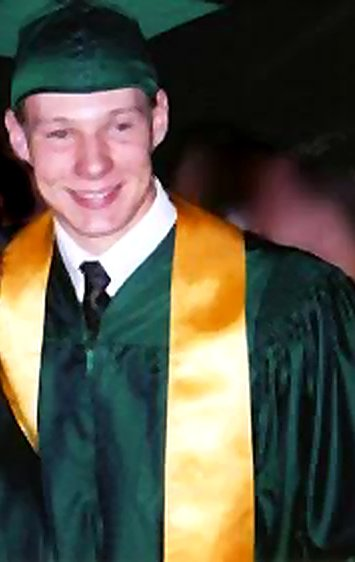
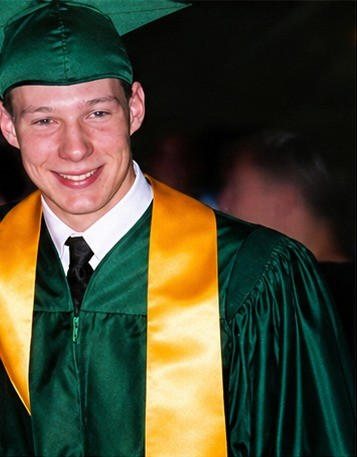
Guimond: sharper photos and two new portraits
Replaces the lead portrait, the navy pullover portrait and the graduation
photo (still cropped to Josh alone) with sharper copies Justin sent, and
adds the glasses photo and the red polo portrait.

Claude-Session: https://claude.ai/code/session_01ToYx7839vDZrWcjsYpVoyb

diff --git a/src/content/cases/joshua-guimond-2002.md b/src/content/cases/joshua-guimond-2002.md
@@ -28,6 +28,9 @@
 # "Walk home" appears only as the state bulletin's words (S3), the early lake theory (S9), Lisa's belief (S4)
 # and what friends assumed (S9). The story never states where he went after he left Metten Court.
 # Photos: supplied by Justin on October 31, 2026. The lead portrait is the one on the family's missing poster.
+# On November 1, 2026, Justin sent sharper copies of the lead portrait, the navy pullover portrait and the
+# graduation photo, which replace the earlier files, and two more: the glasses photo (also on the missing
+# poster) and the red polo portrait.
 # The graduation photo is cropped to Josh alone; the others in the frame are unidentified. The campus map is
 # Justin's, built on OpenStreetMap data, with its "Last seen" label removed so the map doesn't place him anywhere
 # after Metten Court. The abbey church photo is Bobak Ha'Eri's, CC BY 3.0, on Wikimedia Commons.
@@ -140,6 +143,8 @@ About 15 minutes later, his friends called his apartment. No one answered. They 
 
 The next day, Josh didn't show up for mock trial practice. [S7, S13] Forum reported it was in the morning. [S9] FOX 9 put it in the afternoon. [S12]
 
+![Joshua Guimond with a slight smile, in wire-rimmed glasses, a white T-shirt and an open green button-up shirt, against a dark background](./joshua-guimond-2002-glasses.jpg "Josh in an undated photo.")
+
 WCCO reported in 2017 that Brian learned that same day that Josh hadn't been seen. [S6]
 
 "I got home about 8 o'clock and one of his buddies calls and right then it's like you get a pit in your stomach. I knew something was wrong," Brian said. [S6]
@@ -197,6 +202,8 @@ He told MPR News that few leads were still coming in. [S7]
 > "There's no evidence to point that it is an abduction or it isn't an abduction. Joshua went missing or was last seen at a social gathering on the north end of campus, and pretty much the good concrete evidence stops at that point." [S7]
 
 Brian had his own view. He told MPR he was convinced Josh had been taken against his will. "It's like I said from day 1. He was set up and grabbed," he said. [S7] He started a GoFundMe to pay for a private investigator. [S7]
+
+![Joshua Guimond smiling, with short blond hair, in a red polo shirt over a white T-shirt, in a studio portrait](./joshua-guimond-2002-red-shirt.jpg "Josh in an undated portrait.")
 
 Hydukovich, the roommate, went on to practice law. [S6] He told WCCO:
 
